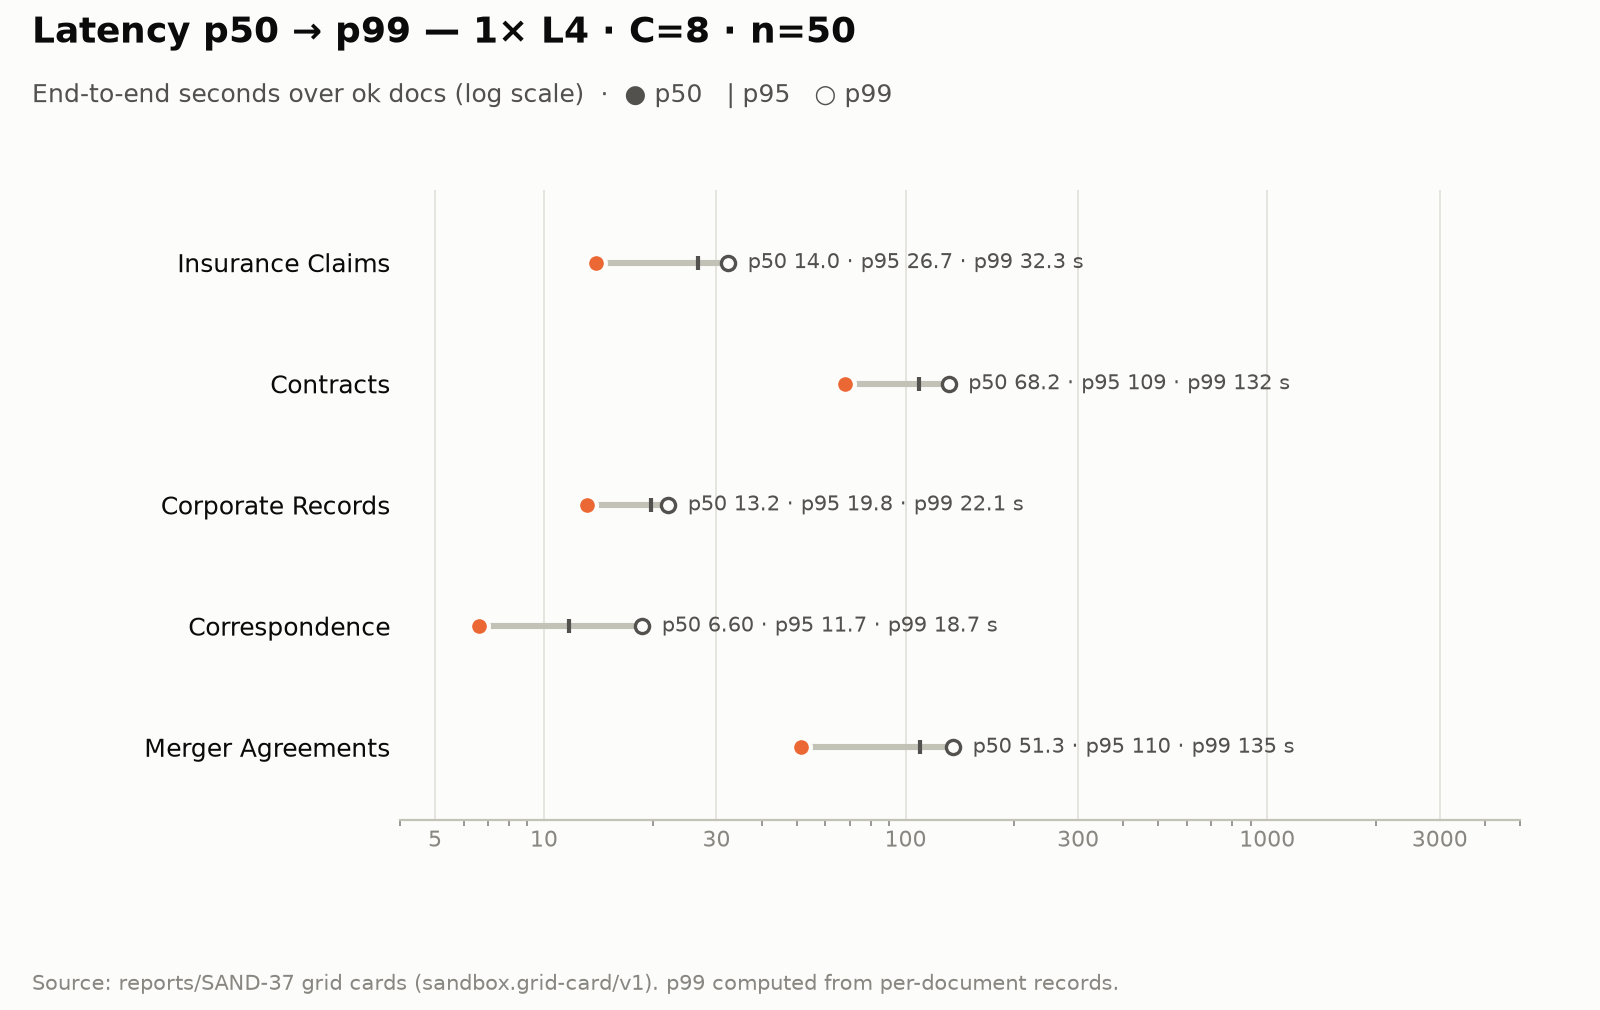
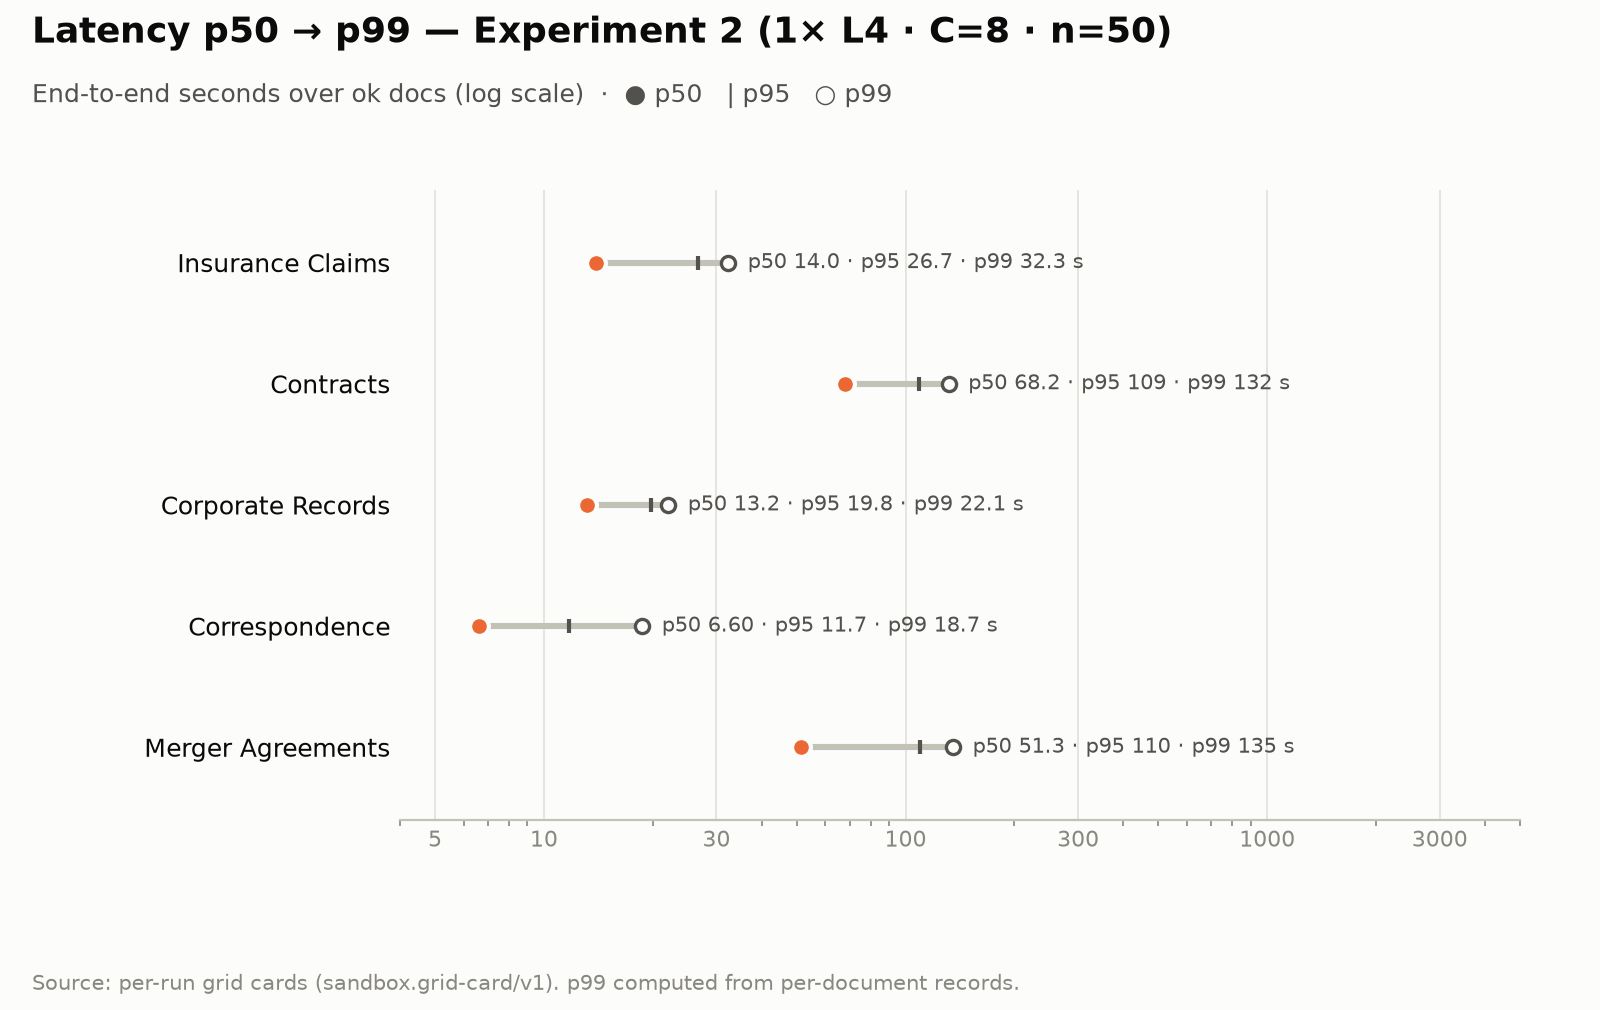
SAND-37 record: embed the nine charts; experiment labels, no SAND ids on charts
- Charts embedded directly under their tables in SAND37_L4_cost_record.md
  (image lines only; no new prose). Cards file stays the detailed appendix.
- Chart titles, legends and footers use Experiment 1-4 + run posture
  instead of SAND-37/39/40; the record's run table gains an Experiment
  column mapping each experiment to its study.
- Legends moved below the subtitle so long titles don't collide.

Claude-Session: https://claude.ai/code/session_01C6uhEVdNhAiZ2cTSTVmQv6

Changed region(s): [[0.2812, 0.0, 0.625, 0.0614], [0.0625, 0.9515, 0.6875, 0.9822], [0.6562, 0.0, 0.7188, 0.0614]]

diff --git a/reports/SAND-37/figures/record/make_record_figures.py b/reports/SAND-37/figures/record/make_record_figures.py
@@ -1,4 +1,4 @@
-"""SAND-37 L4 cost record figures (one chart per PNG), built from the committed grid cards.
+"""L4 cost record figures (one chart per PNG), built from the committed grid cards.
 
 Run from the repo root: python reports/SAND-37/figures/record/make_record_figures.py reports/SAND-37/figures/record
 """
@@ -19,9 +19,9 @@ os.makedirs(OUT, exist_ok=True)
 
 # Two validated reference slots, keyed by GPU count: orange = 1× L4, blue = 2× L4.
 SURFACE, INK, INK2, MUTED, GRID, AXIS = "#fcfcfb", "#0b0b0b", "#52514e", "#898781", "#e1e0d9", "#c3c2b7"
-C_1L4_50 = "#eb6834"   # 1× L4 (SAND-39 C8 n=50)
-C_2L4_50 = "#2a78d6"   # 2× L4 (SAND-37 C32 n=50)
-C_2L4_100 = "#2a78d6"  # 2× L4 (SAND-40 C32 n=100) — one color per GPU count
+C_1L4_50 = "#eb6834"   # Experiment 2: 1× L4 C8 n=50
+C_2L4_50 = "#2a78d6"   # Experiment 3: 2× L4 C32 n=50
+C_2L4_100 = "#2a78d6"  # Experiment 4: 2× L4 C32 n=100 — one color per GPU count
 REF = "#898781"
 
 plt.rcParams.update({
@@ -124,19 +124,21 @@ def dots(ax, vals, color, label_fmt=fmt_num, log=False, xmax=None):
 
 from matplotlib.lines import Line2D
 
-SRC = "Source: reports/SAND-37 grid cards (sandbox.grid-card/v1)."
+SRC = "Source: per-run grid cards (sandbox.grid-card/v1)."
 DAGGER = "† Merger runs optimized settings on 50 agreements (chunked, 7.9 calls/agreement); not a serving comparison."
 
 
 def new_fig(title, subtitle, note, legend=None, rows=5):
-    fig, ax = plt.subplots(figsize=(8, 0.55 * rows + 2.3))
-    fig.subplots_adjust(left=0.25, right=0.95, top=1 - 0.95 / (0.55 * rows + 2.3), bottom=0.95 / (0.55 * rows + 2.3))
+    H = 0.55 * rows + 2.3 + (0.3 if legend else 0)
+    fig, ax = plt.subplots(figsize=(8, H))
+    fig.subplots_adjust(left=0.25, right=0.95, top=1 - (1.25 if legend else 0.95) / H, bottom=0.95 / H)
     fig.text(0.02, 0.985, title, fontsize=13, fontweight="bold", va="top")
-    fig.text(0.02, 0.985 - 0.34 / (0.55 * rows + 2.3), subtitle, fontsize=9, color=INK2, va="top")
+    fig.text(0.02, 0.985 - 0.34 / H, subtitle, fontsize=9, color=INK2, va="top")
     fig.text(0.02, 0.015, note, fontsize=7.5, color=MUTED, va="bottom")
     if legend:
         fig.legend(handles=[Line2D([], [], marker="o", ls="", ms=7, color=c, label=l) for c, l in legend],
-                   loc="upper right", bbox_to_anchor=(0.98, 0.99), ncol=len(legend), frameon=False, fontsize=9)
+                   loc="upper left", bbox_to_anchor=(0.012, 0.985 - 0.58 / H), ncol=len(legend), frameon=False,
+                   fontsize=9, handletextpad=0.3, columnspacing=1.6)
     return fig, ax
 
 
@@ -209,8 +211,8 @@ def posture_set(data, color, tag, posture, dagger=False):
     save(fig, f"{tag}-occupancy")
 
 
-posture_set(S39, C_1L4_50, "1xL4-C8-n50", "1× L4 · C=8 · n=50")
-posture_set(S40, C_2L4_100, "2xL4-C32-n100", "2× L4 · C=32 · n=100", dagger=True)
+posture_set(S39, C_1L4_50, "1xL4-C8-n50", "Experiment 2 (1× L4 · C=8 · n=50)")
+posture_set(S40, C_2L4_100, "2xL4-C32-n100", "Experiment 4 (2× L4 · C=32 · n=100)", dagger=True)
 
 
 def pooled(data):
@@ -221,8 +223,8 @@ def pooled(data):
 
 P1, P2 = pooled(S39), pooled(S37_2)
 ROWS = LABELS + ["Pooled"]
-LEG = [(C_1L4_50, "1× L4 · C8"), (C_2L4_50, "2× L4 · C32")]
-CMP = "Same 250 documents: SAND-39 1× L4 C=8 n=50 → SAND-37 2× L4 C=32 n=50"
+LEG = [(C_1L4_50, "Exp. 2 · 1× L4 C8"), (C_2L4_50, "Exp. 3 · 2× L4 C32")]
+CMP = "Same 250 documents: Experiment 2 (1× L4 · C=8 · n=50) → Experiment 3 (2× L4 · C=32 · n=50)"
 
 
 def dumbbell(ax, a, b, labels, fmt, log=False, delta=True):
@@ -314,7 +316,7 @@ ax.set_ylabel("Score", fontsize=8.5)
 ax.text(0.09, 0.77, "cheaper, better ↖", fontsize=7.5, color=MUTED, va="top")
 save(fig, "cost-vs-score")
 
-# 2. Merger: frozen (SAND-37 2× L4 n=50) vs † (SAND-40), same 50 agreements, indexed to frozen.
+# 2. Merger: frozen (Experiment 3) vs † (Experiment 4), same 50 agreements, indexed to frozen.
 fz, dg = card("grid-50", "2l4", "merger"), card("sand40", "2l4", "merger")
 mf, md = S37_2["merger"], S40["merger"]
 cf, cd_ = fz["quality"]["clause"], dg["quality"]["clause"]
@@ -329,7 +331,7 @@ items = [
 ]
 fig, ax = new_fig("Merger agreements — frozen vs † settings",
                   "Same 50 agreements on 2× L4 C=32 · each bar is † ÷ frozen (dashed line = no change)",
-                  SRC + " Frozen = SAND-37 (46/50 ok); † = SAND-40 (50/50 ok)."
+                  SRC + " Frozen = Experiment 3 (46/50 ok); † = Experiment 4 (50/50 ok)."
                   "\n† = chunked whole agreement, maud_v1 prompt, 6,144-token cap, 1 length re-sample."
                   "\nSettings changed together, so the gain is not attributed to any one of them.",
                   rows=7)
@@ -350,7 +352,7 @@ ax.text(15.8, 5, "quality", fontsize=7.5, color=MUTED, ha="right", va="center")
 ax.text(15.8, 2, "cost & time", fontsize=7.5, color=MUTED, ha="right", va="center")
 save(fig, "merger-frozen-vs-dagger")
 
-# 3. Batch size on 2× L4: n=50 (SAND-37) → n=100 (SAND-40), four unchanged classes + pooled.
+# 3. Batch size on 2× L4: n=50 (Experiment 3) → n=100 (Experiment 4), four unchanged classes + pooled.
 C_N50, C_N100 = "#86b6ef", "#2a78d6"   # ordinal steps of the 2× L4 blue
 four = [k for k in KEYS if k != "merger"]
 labs4 = [lab for k, lab in CLASSES if k != "merger"] + ["Pooled (4 classes)"]
@@ -358,9 +360,9 @@ pool = lambda d: sum(d[k]["busy"] for k in four) / sum(d[k]["ok"] for k in four)
 a = [S37_2[k]["cost_1k"] for k in four] + [pool(S37_2)]
 b = [S40[k]["cost_1k"] for k in four] + [pool(S40)]
 fig, ax = new_fig("Batch size on 2× L4 — n=50 → n=100",
-                  "Cost per 1,000 ok docs, SAND-37 n=50 → SAND-40 n=100, C=32 (log scale; merger excluded: settings changed)",
+                  "Cost per 1,000 ok docs, Experiment 3 (n=50) → Experiment 4 (n=100), C=32 (log scale; merger excluded)",
                   SRC + " Pooled = Σ busy GPU $ ÷ Σ ok docs. Contracts' idle share of wall time fell 49% → 32%.",
-                  [(C_N50, "n=50"), (C_N100, "n=100")], rows=5)
+                  [(C_N50, "Exp. 3 · n=50"), (C_N100, "Exp. 4 · n=100")], rows=5)
 ys = list(range(len(a)))[::-1]
 ax.hlines(ys, a, b, color=AXIS, linewidth=2.2, zorder=1)
 ax.scatter(a, ys, s=50, color=C_N50, edgecolor=SURFACE, linewidth=1.5, zorder=3)

diff --git a/reports/SAND-37/SAND37_L4_cost_record.md b/reports/SAND-37/SAND37_L4_cost_record.md
@@ -5,12 +5,12 @@ Model `Qwen/Qwen3-8B-AWQ`, vLLM `v0.29.0`, awq_marlin, fp8 KV, max_num_seqs 16, 
 Data: `Lucius-Morningstar/mailroom-dataset` ground_truth @ `ed7576b6`, seed 42. Draws are nested (n=20 ⊂ n=50 ⊂ n=100), and every n=50 posture scores the same documents.
 Cost/ok doc = busy GPU $ ÷ ok docs. Latency is per-document end-to-end over ok docs. TTFT is vLLM's request-weighted mean. Compiled 2026-10-01.
 
-| Study | Posture | GPUs | Client concurrency | Docs per class | Cells |
-|---|---|---|---|---|---|
-| SAND-37 | 1×L4 C8 n=20 | 1 | 8 | 20 | 5/5 |
-| SAND-39 | 1×L4 C8 n=50 | 1 | 8 | 50 | 5/5 |
-| SAND-37 | 2×L4 C32 n=50 | 2 | 32 | 50 | 5/5 |
-| SAND-40 | 2×L4 C32 n=100 | 2 | 32 | 100 (merger 50†) | 5/5 |
+| Experiment | Study | Posture | GPUs | Client concurrency | Docs per class | Cells |
+|---|---|---|---|---|---|---|
+| 1 | SAND-37 | 1×L4 C8 n=20 | 1 | 8 | 20 | 5/5 |
+| 2 | SAND-39 | 1×L4 C8 n=50 | 1 | 8 | 50 | 5/5 |
+| 3 | SAND-37 | 2×L4 C32 n=50 | 2 | 32 | 50 | 5/5 |
+| 4 | SAND-40 | 2×L4 C32 n=100 | 2 | 32 | 100 (merger 50†) | 5/5 |
 
 **Checks:** busy GPU $ = wall × replicas × $0.80 ÷ 3,600 in all 20 cards. Field-score means and MAUD accuracies match the SAND-37 master card to 3 dp.
 
@@ -37,6 +37,8 @@ Cost/ok doc = busy GPU $ ÷ ok docs. Latency is per-document end-to-end over ok 
 
 **Score, reliability & cost**
 
+![Cost per 1,000 ok documents, Experiment 2](figures/record/1xL4-C8-n50-cost.png)
+
 | Class | ok / n | Err | Schema-valid | Score (sd) | Cost/ok doc ($) | $ per 1k ok | Docs/min | Docs/GPU-hr | Tok/s/GPU | $ per 1M tok |
 |---|---|---|---|---|---|---|---|---|---|---|
 | Insurance Claims | 50/50 | 0 | 0.20 | 0.684 (0.069) | 0.00039 | 0.39 | 34.32 | 2,052 | 2,087 | 0.107 |
@@ -46,6 +48,8 @@ Cost/ok doc = busy GPU $ ÷ ok docs. Latency is per-document end-to-end over ok 
 | Merger Agreements | 46/50 | 4 | 1.00 | 0.048 (0.049) | 0.00284 | 2.84 | 5.10 | 281 | 803 | 0.277 |
 
 **Latency & engine**
+
+![Latency p50 to p99, Experiment 2](figures/record/1xL4-C8-n50-latency.png)
 
 | Class | Lat mean (s) | p50 | p95 | p99 | Max | TTFT (s) | Occupancy | Requests | Length-capped | Preempt | Prefix hit |
 |---|---|---|---|---|---|---|---|---|---|---|---|
@@ -61,6 +65,8 @@ Contracts score = CUAD clause-presence F1 (labeled-doc mean). Merger = MAUD micr
 
 **Score, reliability & cost**
 
+![Cost per 1,000 ok documents, Experiment 4](figures/record/2xL4-C32-n100-cost.png)
+
 | Class | ok / n | Err | Schema-valid | Score (sd) | Cost/ok doc ($) | $ per 1k ok | Docs/min | Docs/GPU-hr | Tok/s/GPU | $ per 1M tok |
 |---|---|---|---|---|---|---|---|---|---|---|
 | Insurance Claims | 100/100 | 0 | 0.23 | 0.672 (0.064) | 0.00036 | 0.36 | 73.62 | 4,401 | 2,263 | 0.098 |
@@ -70,6 +76,8 @@ Contracts score = CUAD clause-presence F1 (labeled-doc mean). Merger = MAUD micr
 | Merger Agreements† | 50/50 | 0 | 1.00 | 0.140 (0.090) | 0.01475 | 14.75 | 1.81 | 108 | 1,692 | 0.131 |
 
 **Latency & engine**
+
+![Latency p50 to p99, Experiment 4](figures/record/2xL4-C32-n100-latency.png)
 
 | Class | Lat mean (s) | p50 | p95 | p99 | Max | TTFT (s) | Occupancy | Requests | Length-capped | Preempt | Prefix hit |
 |---|---|---|---|---|---|---|---|---|---|---|---|
@@ -92,6 +100,12 @@ Contracts score = CUAD clause-presence F1 (labeled-doc mean). Merger = MAUD micr
 | Merger Agreements | 0.00284 → 0.00329 | +16% | 5.10 → 8.80 | +73% | 86% | 51.3 → 92.5 | 109.7 → 167.2 | 2.35 → 9.39 | 0.048 → 0.035 | 4 / 4 |
 | **Pooled** | 0.00132 → 0.00131 | **-0.4%** | 10.40 → 20.71 | **+99%** | 100% | | | | no detectable change | 7 / 5 |
 
+![Cost per 1,000 ok documents, 1x vs 2x L4](figures/record/1x-vs-2xL4-cost.png)
+
+![Throughput, 1x vs 2x L4](figures/record/1x-vs-2xL4-throughput.png)
+
+![Cost vs score, same 250 documents](figures/record/cost-vs-score.png)
+
 - Pooled throughput doubles (+99%) at flat cost per ok doc (-0.4%); tokens/s/GPU 1,002 → 1,013.
 - Scaling above 100% (insurance claims, corporate records, correspondence) is confounded with client concurrency 8 → 32.
 - Latency p50 rises 1.4–1.8× and TTFT 2.8–4.0×; per-specialist quality change −0.011 to +0.023, every 95% CI includes 0.
@@ -105,6 +119,8 @@ Contracts score = CUAD clause-presence F1 (labeled-doc mean). Merger = MAUD micr
 | Corporate Records | 0.00019 → 0.00021 | +14% | 141.69 → 124.72 | -12% | 5,467 → 4,549 | -17% | 24.1 → 19.9 | 34.6 → 31.8 | 0% → 0% |
 | Correspondence | 0.00012 → 0.00012 | -1% | 214.96 → 218.03 | +1% | 5,120 → 5,343 | +4% | 10.7 → 10.3 | 18.5 → 20.3 | 0% → 0% |
 | **Pooled (4 classes)** | 0.00086 → 0.00069 | **-20%** | 31.29 → 38.85 | **+24%** | 1,296 → 1,582 | **+22%** | | | |
+
+![Batch size on 2x L4, n=50 to n=100](figures/record/2xL4-n50-vs-n100-cost.png)
 
 - Pooled cost per ok doc falls 20%, almost all from contracts (-27%; idle share 49% → 32%).
 - Correspondence is flat (-1%); corporate records (+14%) and insurance claims (+14%) got more expensive.
@@ -125,6 +141,8 @@ Contracts score = CUAD clause-presence F1 (labeled-doc mean). Merger = MAUD micr
 | Latency p50 / p95 / max (s) | 92.5 / 167.2 / 211.6 | 1,044.4 / 2,067.4 / 2,264.4 | ×11.3 p50 |
 | TTFT (s) | 9.39 | 10.81 | — |
 | vLLM requests / length-capped / preemptions | 50 / 4 / 0 | 418 / 23 / 8 | — |
+
+![Merger agreements, frozen vs dagger settings](figures/record/merger-frozen-vs-dagger.png)
 
 - † costs 4.5× more per agreement but only +11% per correct MAUD answer; the settings changed together, so the gain is not attributed to any one.
 - Replica 1 took all 8 preemptions and 14 of 23 length-capped finishes.
